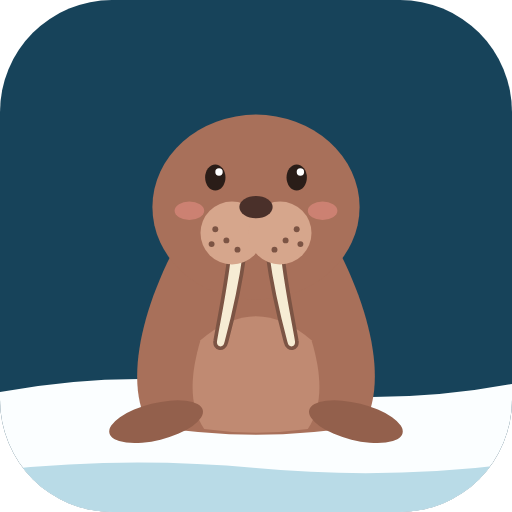
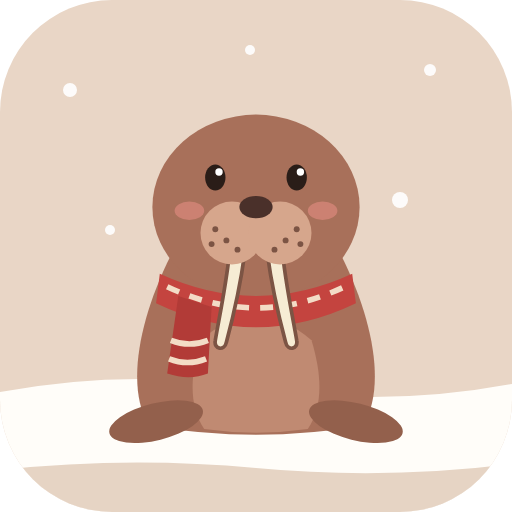
겨울 테마를 포근하게: 따뜻한 눈빛 바탕, 코코아 주색, 목도리 두른 바코
로그인 화면은 눈 내리는 따뜻한 하늘과 코코아빛 아래쪽, 앱 아이콘도 같은 색으로 다시 그림.

Claude-Session: https://claude.ai/code/session_01F8hNNNgtMbgEFBN3Ct6zKx

diff --git a/src/styles.css b/src/styles.css
@@ -1,12 +1,12 @@
-/* BacoClass: 북극 바다 + 얼음 공책 + 스테인리스 식판, 캐릭터는 바다코끼리 바코 */
+/* BacoClass: 포근한 겨울(눈 + 코코아) + 공책 + 스테인리스 식판, 캐릭터는 목도리 두른 바다코끼리 바코 */
 :root {
-  --paper: #eff5f7;        /* 얼음빛 공책 바탕 */
-  --surface: #fbfdfe;
-  --rule: #d2dee4;         /* 공책 줄 */
-  --ink: #15242c;
-  --ink-soft: #5a6b74;
-  --board: #17435a;        /* 북극 바다 (예전 칠판 자리) */
-  --board-ink: #eef6f8;    /* 얼음 */
+  --paper: #f4ede6;        /* 따뜻한 눈빛 공책 바탕 */
+  --surface: #fffaf5;
+  --rule: #e4d8cc;         /* 공책 줄 */
+  --ink: #2a201b;
+  --ink-soft: #76675d;
+  --board: #5b3a2e;        /* 코코아 (예전 칠판 자리) */
+  --board-ink: #fbf1e8;    /* 우유 거품 */
   --highlight: #ffe45c;    /* 형광펜 */
   --redpen: #c93c27;       /* 빨간펜 */
   --steel-1: #dfe4e6;      /* 식판 */
@@ -26,13 +26,13 @@
 
 @media (prefers-color-scheme: dark) {
   :root {
-    --paper: #0f1d24;
-    --surface: #15262f;
-    --rule: #26404c;
-    --ink: #e6eff2;
-    --ink-soft: #93a6ae;
-    --board: #8cc6da;
-    --board-ink: #0c2330;
+    --paper: #1b1613;
+    --surface: #241d19;
+    --rule: #3c3029;
+    --ink: #f3eae2;
+    --ink-soft: #b3a396;
+    --board: #e3b597;
+    --board-ink: #2b1810;
     --highlight: #8a7a1c;
     --redpen: #ff8a73;
     --steel-1: #44505a;
@@ -238,7 +238,7 @@ textarea { resize: vertical; line-height: 1.6; }
   position: fixed; right: 16px; bottom: calc(80px + env(safe-area-inset-bottom)); z-index: 5;
   display: inline-flex; align-items: center; gap: 6px; height: 50px; padding: 0 18px 0 14px;
   border-radius: 999px; background: var(--board); color: var(--board-ink); font-weight: 600;
-  box-shadow: 0 8px 18px -6px rgb(14 46 62 / 0.55);
+  box-shadow: 0 8px 18px -6px rgb(60 36 28 / 0.5);
 }
 
 /* 하단 탭 */
@@ -260,19 +260,27 @@ textarea { resize: vertical; line-height: 1.6; }
 /* 로그인: 칠판 */
 .floe-page {
   min-height: 100vh; min-height: 100dvh; display: flex; flex-direction: column;
-  background: linear-gradient(#dcedf3, #eef7fa 70%); color: #17435a;
+  background:
+    radial-gradient(2.5px 2.5px at 6% 10%, #fff 98%, transparent),
+    radial-gradient(2px 2px at 78% 12%, #fff 98%, transparent),
+    radial-gradient(3px 3px at 64% 34%, #fff 98%, transparent),
+    radial-gradient(2px 2px at 30% 46%, #fff 98%, transparent),
+    radial-gradient(2.5px 2.5px at 88% 52%, #fff 98%, transparent),
+    radial-gradient(2px 2px at 8% 62%, #fff 98%, transparent),
+    linear-gradient(#ecdccf, #f7efe8 72%);
+  color: #5b3a2e;
 }
 .floe-sky { padding: 16vh 28px 0; max-width: 560px; }
-.floe-title { font-size: clamp(52px, 15vw, 76px); line-height: 1; letter-spacing: -0.01em; color: #17435a; }
-.floe-sub { margin-top: 14px; font-size: 17px; line-height: 1.7; color: #3f6474; }
-/* 얼음 위에 앉은 바코. 화면 아래 바다로 이어짐 */
+.floe-title { font-size: clamp(52px, 15vw, 76px); line-height: 1; letter-spacing: -0.01em; color: #5b3a2e; }
+.floe-sub { margin-top: 14px; font-size: 17px; line-height: 1.7; color: #7a5c4e; }
+/* 눈 더미 위에 앉은 바코. 화면 아래 코코아빛 담요로 이어짐 */
 .floe-scene { position: relative; margin-top: auto; min-height: 270px; flex: none; }
 .floe-bob { position: absolute; left: 50%; bottom: 4px; width: 320px; margin-left: -150px; }
 .floe-baco { display: block; margin: 0 auto -20px; position: relative; z-index: 1; }
 .floe-ice { display: block; width: 100%; height: 56px; }
 .floe-wave { position: absolute; left: 0; right: 0; bottom: -1px; width: 100%; height: 24px; z-index: 2; }
 .floe-sea {
-  background: #17435a; color: #eef6f8;
+  background: #5b3a2e; color: #fbf1e8;
   padding: 18px 24px calc(28px + env(safe-area-inset-bottom));
   display: flex; flex-direction: column; gap: 12px;
 }
@@ -281,8 +289,8 @@ textarea { resize: vertical; line-height: 1.6; }
 .floe-note a { color: inherit; text-decoration: underline; text-underline-offset: 3px; }
 .btn-ice {
   min-height: 52px; padding: 0 20px; border: none; border-radius: 14px;
-  background: #fbfeff; color: #17435a; font-weight: 600; font-size: 17px;
-  box-shadow: 0 3px 0 #b9dbe7;
+  background: #fffaf5; color: #5b3a2e; font-weight: 600; font-size: 17px;
+  box-shadow: 0 3px 0 #d9c3b1;
 }
 .floe-page :focus-visible { outline-color: var(--highlight); }
 @media (prefers-reduced-motion: no-preference) {
@@ -293,7 +301,7 @@ textarea { resize: vertical; line-height: 1.6; }
 /* 사진 크게 보기 위의 버튼 */
 .btn-chalk {
   min-height: 52px; padding: 0 20px; border: none; border-radius: 12px;
-  background: #eef6f8; color: #17435a; font-weight: 600; font-size: 17px;
+  background: #fbf1e8; color: #5b3a2e; font-weight: 600; font-size: 17px;
   display: inline-flex; align-items: center; justify-content: center;
 }
 
@@ -675,4 +683,4 @@ button.attach-file { cursor: pointer; }
 .season-spring { --s-board: #b0476b; --s-paper: #f8d9e2; }
 .season-summer { --s-board: #2f7a45; --s-paper: #cfe8c7; }
 .season-autumn { --s-board: #a4471f; --s-paper: #f2cf9e; }
-.season-winter { --s-board: #17435a; --s-paper: #d6eaf1; }
+.season-winter { --s-board: #5b3a2e; --s-paper: #f1e2d4; }

diff --git a/src/components/Baco.jsx b/src/components/Baco.jsx
@@ -1,4 +1,4 @@
-// 바코: BacoClass 의 바다코끼리 캐릭터 (로그인 화면, 아이콘과 같은 모양)
+// 바코: BacoClass 의 바다코끼리 캐릭터 (로그인 화면, 아이콘과 같은 모양). 겨울이라 목도리를 둘렀음
 export default function Baco({ size = 160, className = '', title }) {
   return (
     <svg className={className} viewBox="0 0 240 210" width={size} height={size * 210 / 240}
@@ -14,6 +14,10 @@ export default function Baco({ size = 160, className = '', title }) {
       <circle cx="144" cy="59" r="2" fill="#fff" />
       <ellipse cx="84" cy="80" rx="8" ry="5" fill="#e98f86" opacity=".55" />
       <ellipse cx="156" cy="80" rx="8" ry="5" fill="#e98f86" opacity=".55" />
+      <path d="M68 114Q120 138 172 114L174 130Q120 156 66 130Z" fill="#c4443f" />
+      <path d="M72 121Q120 144 168 121" stroke="#f3dcc6" strokeWidth="3" fill="none" strokeDasharray="7 6" />
+      <path d="M78 126L72 168Q84 172 94 168L96 132Z" fill="#b23b37" />
+      <path d="M73 160Q83 164 93 160M74 150Q84 154 94 150" stroke="#f3dcc6" strokeWidth="3" fill="none" />
       <g fill="#f6ecd4" stroke="#7c5444" strokeWidth="2" strokeLinejoin="round">
         <path d="M106 100C104 120 100 138 98 150C97 155 103 156 104 151C108 136 112 118 114 102Z" />
         <path d="M134 100C136 120 140 138 142 150C143 155 137 156 136 151C132 136 128 118 126 102Z" />

diff --git a/src/pages/Login.jsx b/src/pages/Login.jsx
@@ -18,12 +18,12 @@ export default function Login() {
         <div className="floe-bob">
           <Baco className="floe-baco" size={224} />
           <svg className="floe-ice" viewBox="0 0 320 70" preserveAspectRatio="none">
-            <path d="M14 22L46 8L118 12L170 4L238 10L300 18L310 30L6 30Z" fill="#fbfeff" />
-            <path d="M6 30L310 30L296 52L218 64L120 60L36 50Z" fill="#b9dbe7" />
+            <path d="M14 22L46 8L118 12L170 4L238 10L300 18L310 30L6 30Z" fill="#fffdf9" />
+            <path d="M6 30L310 30L296 52L218 64L120 60L36 50Z" fill="#e6d4c4" />
           </svg>
         </div>
         <svg className="floe-wave" viewBox="0 0 400 24" preserveAspectRatio="none">
-          <path d="M0 12C34 2 66 2 100 12S166 22 200 12S266 2 300 12S366 22 400 12V24H0Z" fill="#17435a" />
+          <path d="M0 12C34 2 66 2 100 12S166 22 200 12S266 2 300 12S366 22 400 12V24H0Z" fill="#5b3a2e" />
         </svg>
       </div>
       <div className="floe-sea">

diff --git a/public/privacy.html b/public/privacy.html
@@ -6,7 +6,7 @@
   <title>개인정보처리방침 · BacoClass</title>
   <link rel="icon" href="/icon.svg" type="image/svg+xml" />
   <style>
-    :root { --ink: #15242c; --soft: #5a6b74; --paper: #eff5f7; --board: #17435a; --rule: #d2dee4; }
+    :root { --ink: #2a201b; --soft: #76675d; --paper: #f4ede6; --board: #5b3a2e; --rule: #e4d8cc; }
     @media (prefers-color-scheme: dark) { :root { --ink: #e8eee9; --soft: #a3b3ac; --paper: #141a18; --board: #8fc7ad; --rule: #2a3531; } }
     body { margin: 0; background: var(--paper); color: var(--ink); font: 16px/1.7 'IBM Plex Sans KR', system-ui, sans-serif; }
     main { max-width: 680px; margin: 0 auto; padding: 40px 16px 64px; }

diff --git a/src/theme.js b/src/theme.js
@@ -1,9 +1,9 @@
-// 계절 테마: 이 기기에만 저장. 기본은 겨울(북극 바다)
+// 계절 테마: 이 기기에만 저장. 기본은 겨울(포근한 눈)
 export const SEASONS = [
   { id: 'spring', name: '봄', note: '벚꽃', color: '#b0476b' },
   { id: 'summer', name: '여름', note: '푸른 잎', color: '#2f7a45' },
   { id: 'autumn', name: '가을', note: '단풍', color: '#a4471f' },
-  { id: 'winter', name: '겨울', note: '북극 바다', color: '#17435a' }
+  { id: 'winter', name: '겨울', note: '포근한 눈', color: '#5b3a2e' }
 ]
 const KEY = 'bacoclass-season'
 

diff --git a/index.html b/index.html
@@ -3,7 +3,7 @@
   <head>
     <meta charset="UTF-8" />
     <meta name="viewport" content="width=device-width, initial-scale=1.0, viewport-fit=cover" />
-    <meta name="theme-color" content="#17435a" />
+    <meta name="theme-color" content="#5b3a2e" />
     <link rel="icon" href="/icon.svg" type="image/svg+xml" />
     <link rel="apple-touch-icon" href="/apple-touch-icon.png" />
     <!-- 아이폰·아이패드·맥에서 홈 화면/Dock 에 추가했을 때 앱 이름과 모양 -->

diff --git a/vite.config.js b/vite.config.js
@@ -18,8 +18,8 @@ export default defineConfig({
         short_name: 'BacoClass',
         description: '수행평가, 가정통신문, 급식을 한눈에',
         lang: 'ko',
-        theme_color: '#17435a',
-        background_color: '#eff5f7',
+        theme_color: '#5b3a2e',
+        background_color: '#f4ede6',
         display: 'standalone',
         start_url: '/',
         icons: [
